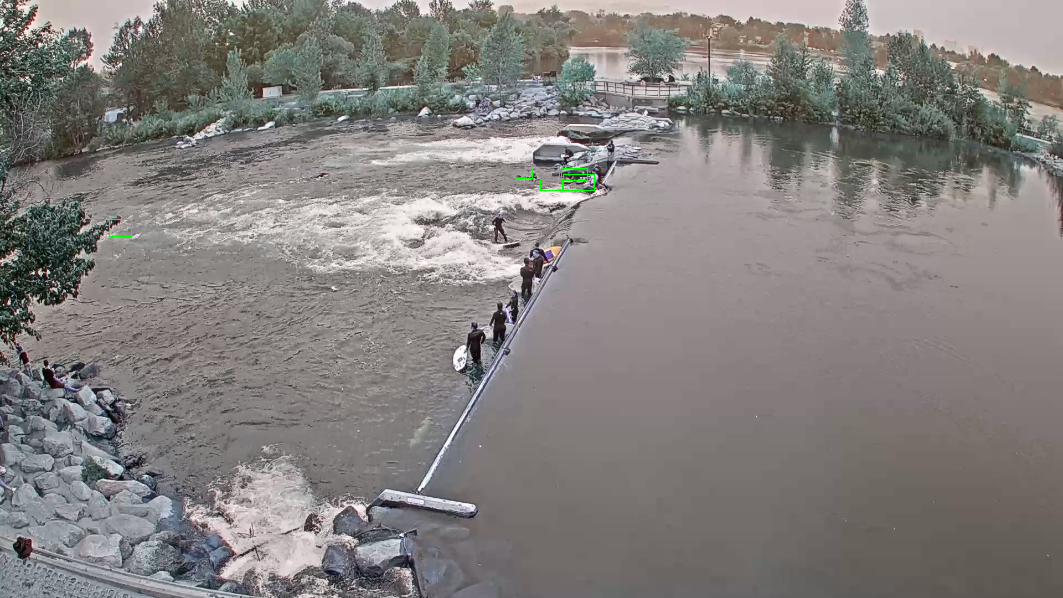
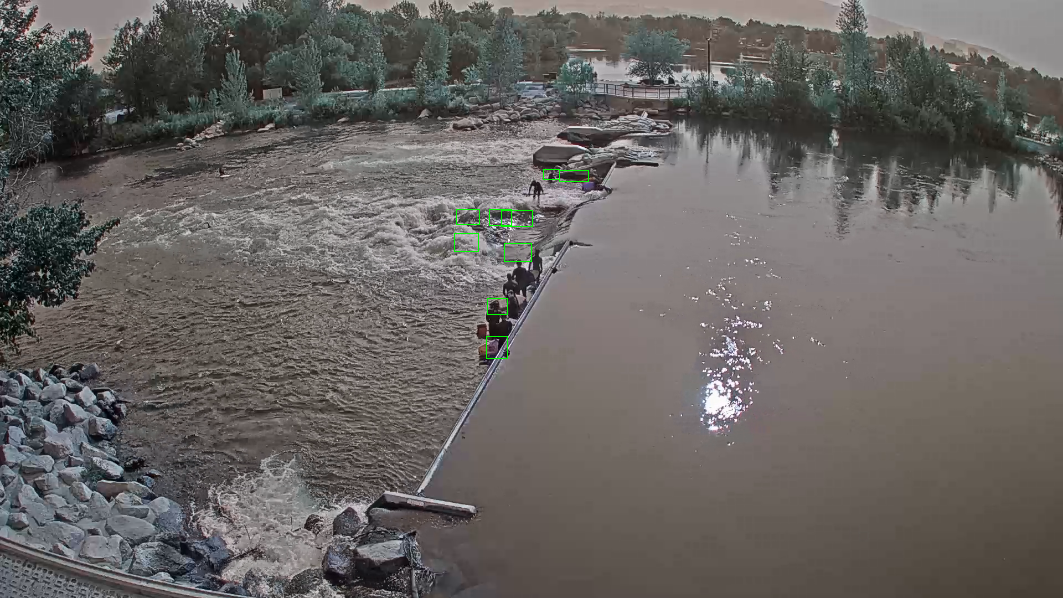
Docker stuff

diff --git a/monitor/api.py b/monitor/api.py
@@ -89,7 +89,7 @@ async def screenshot_wave(request) -> JsonResponse:
     save_path = r"images/wave/" + slug + ".png"
     utils.ScreenshotStore().upload(temp_path, save_path)
     screenshot = Screenshot(timestamp=timestamp, url=save_path)
-    detection_model = "beta"
+    detection_model = "delta"
     detect_function = utils.lookup_detector(detection_model)
     detection = await do_detection(detection_model, screenshot, detect_function)
     context = dict(slug=slug, screenshot=screenshot, detection=detection)

diff --git a/monitor/utils.py b/monitor/utils.py
@@ -198,12 +198,12 @@ def delta_detector(image):
     return filtered_detections
 
 
-def detect_objects(detections):
+def openai_detect_objects(detections):
     print(detections)
     return {"success": True}
 
 functions = {
-    'detect_objects': detect_objects
+    'openai_detect_objects': openai_detect_objects
  }
 
 def execute_required_functions(required_actions):
